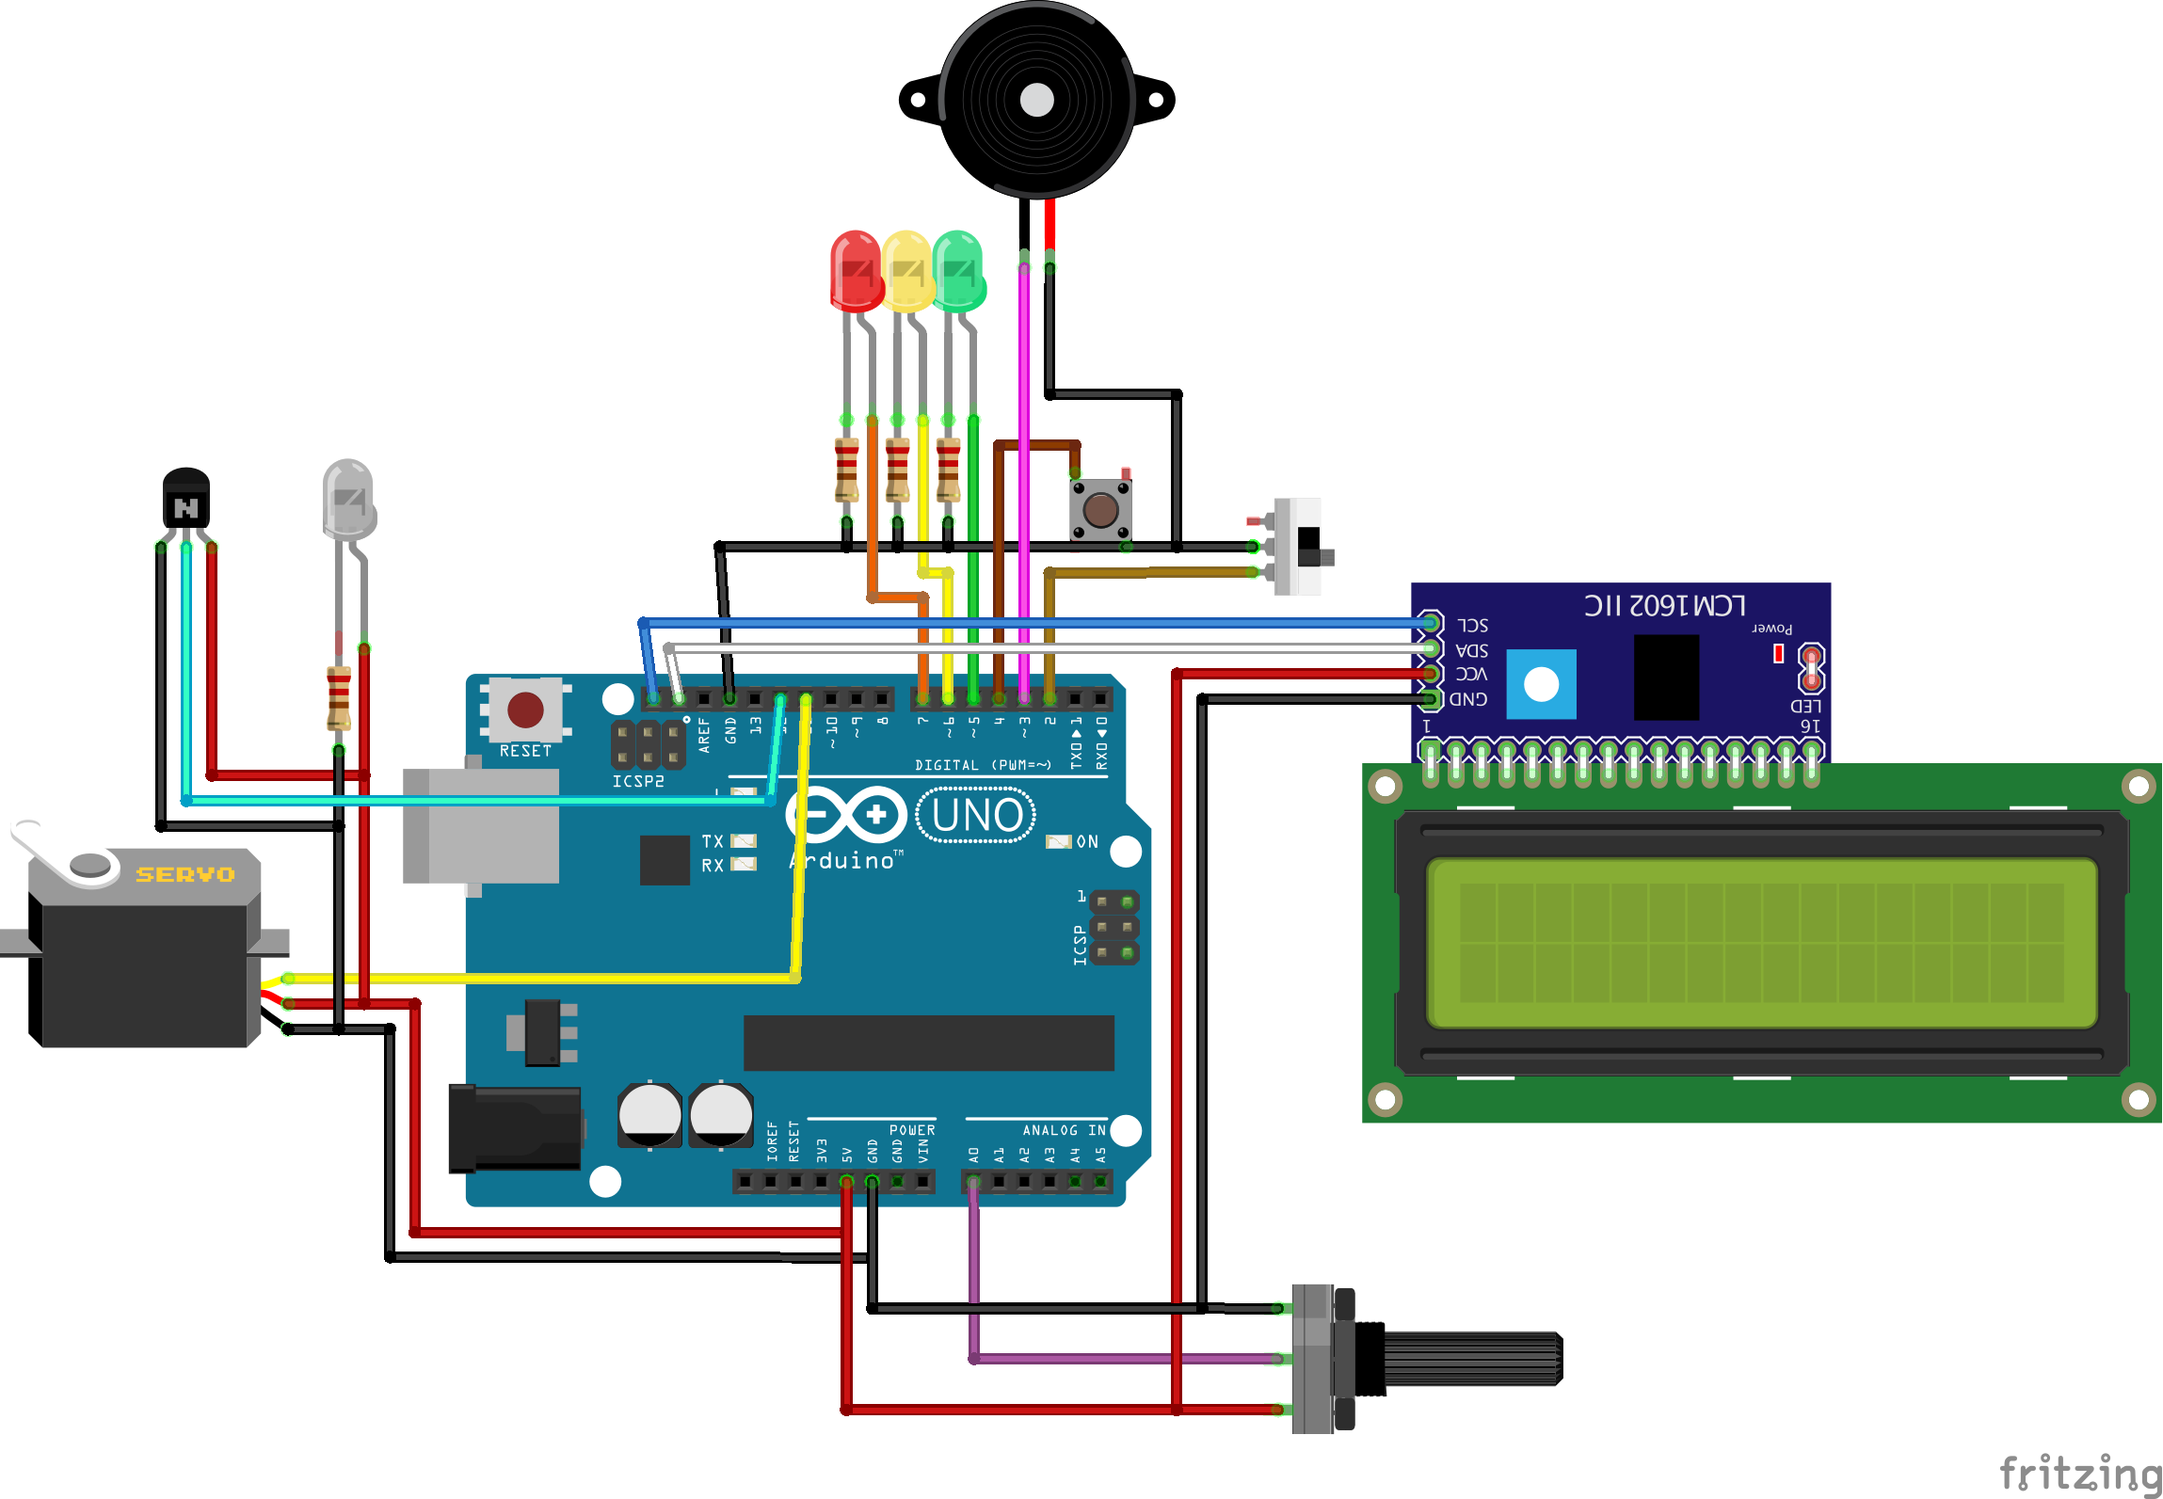
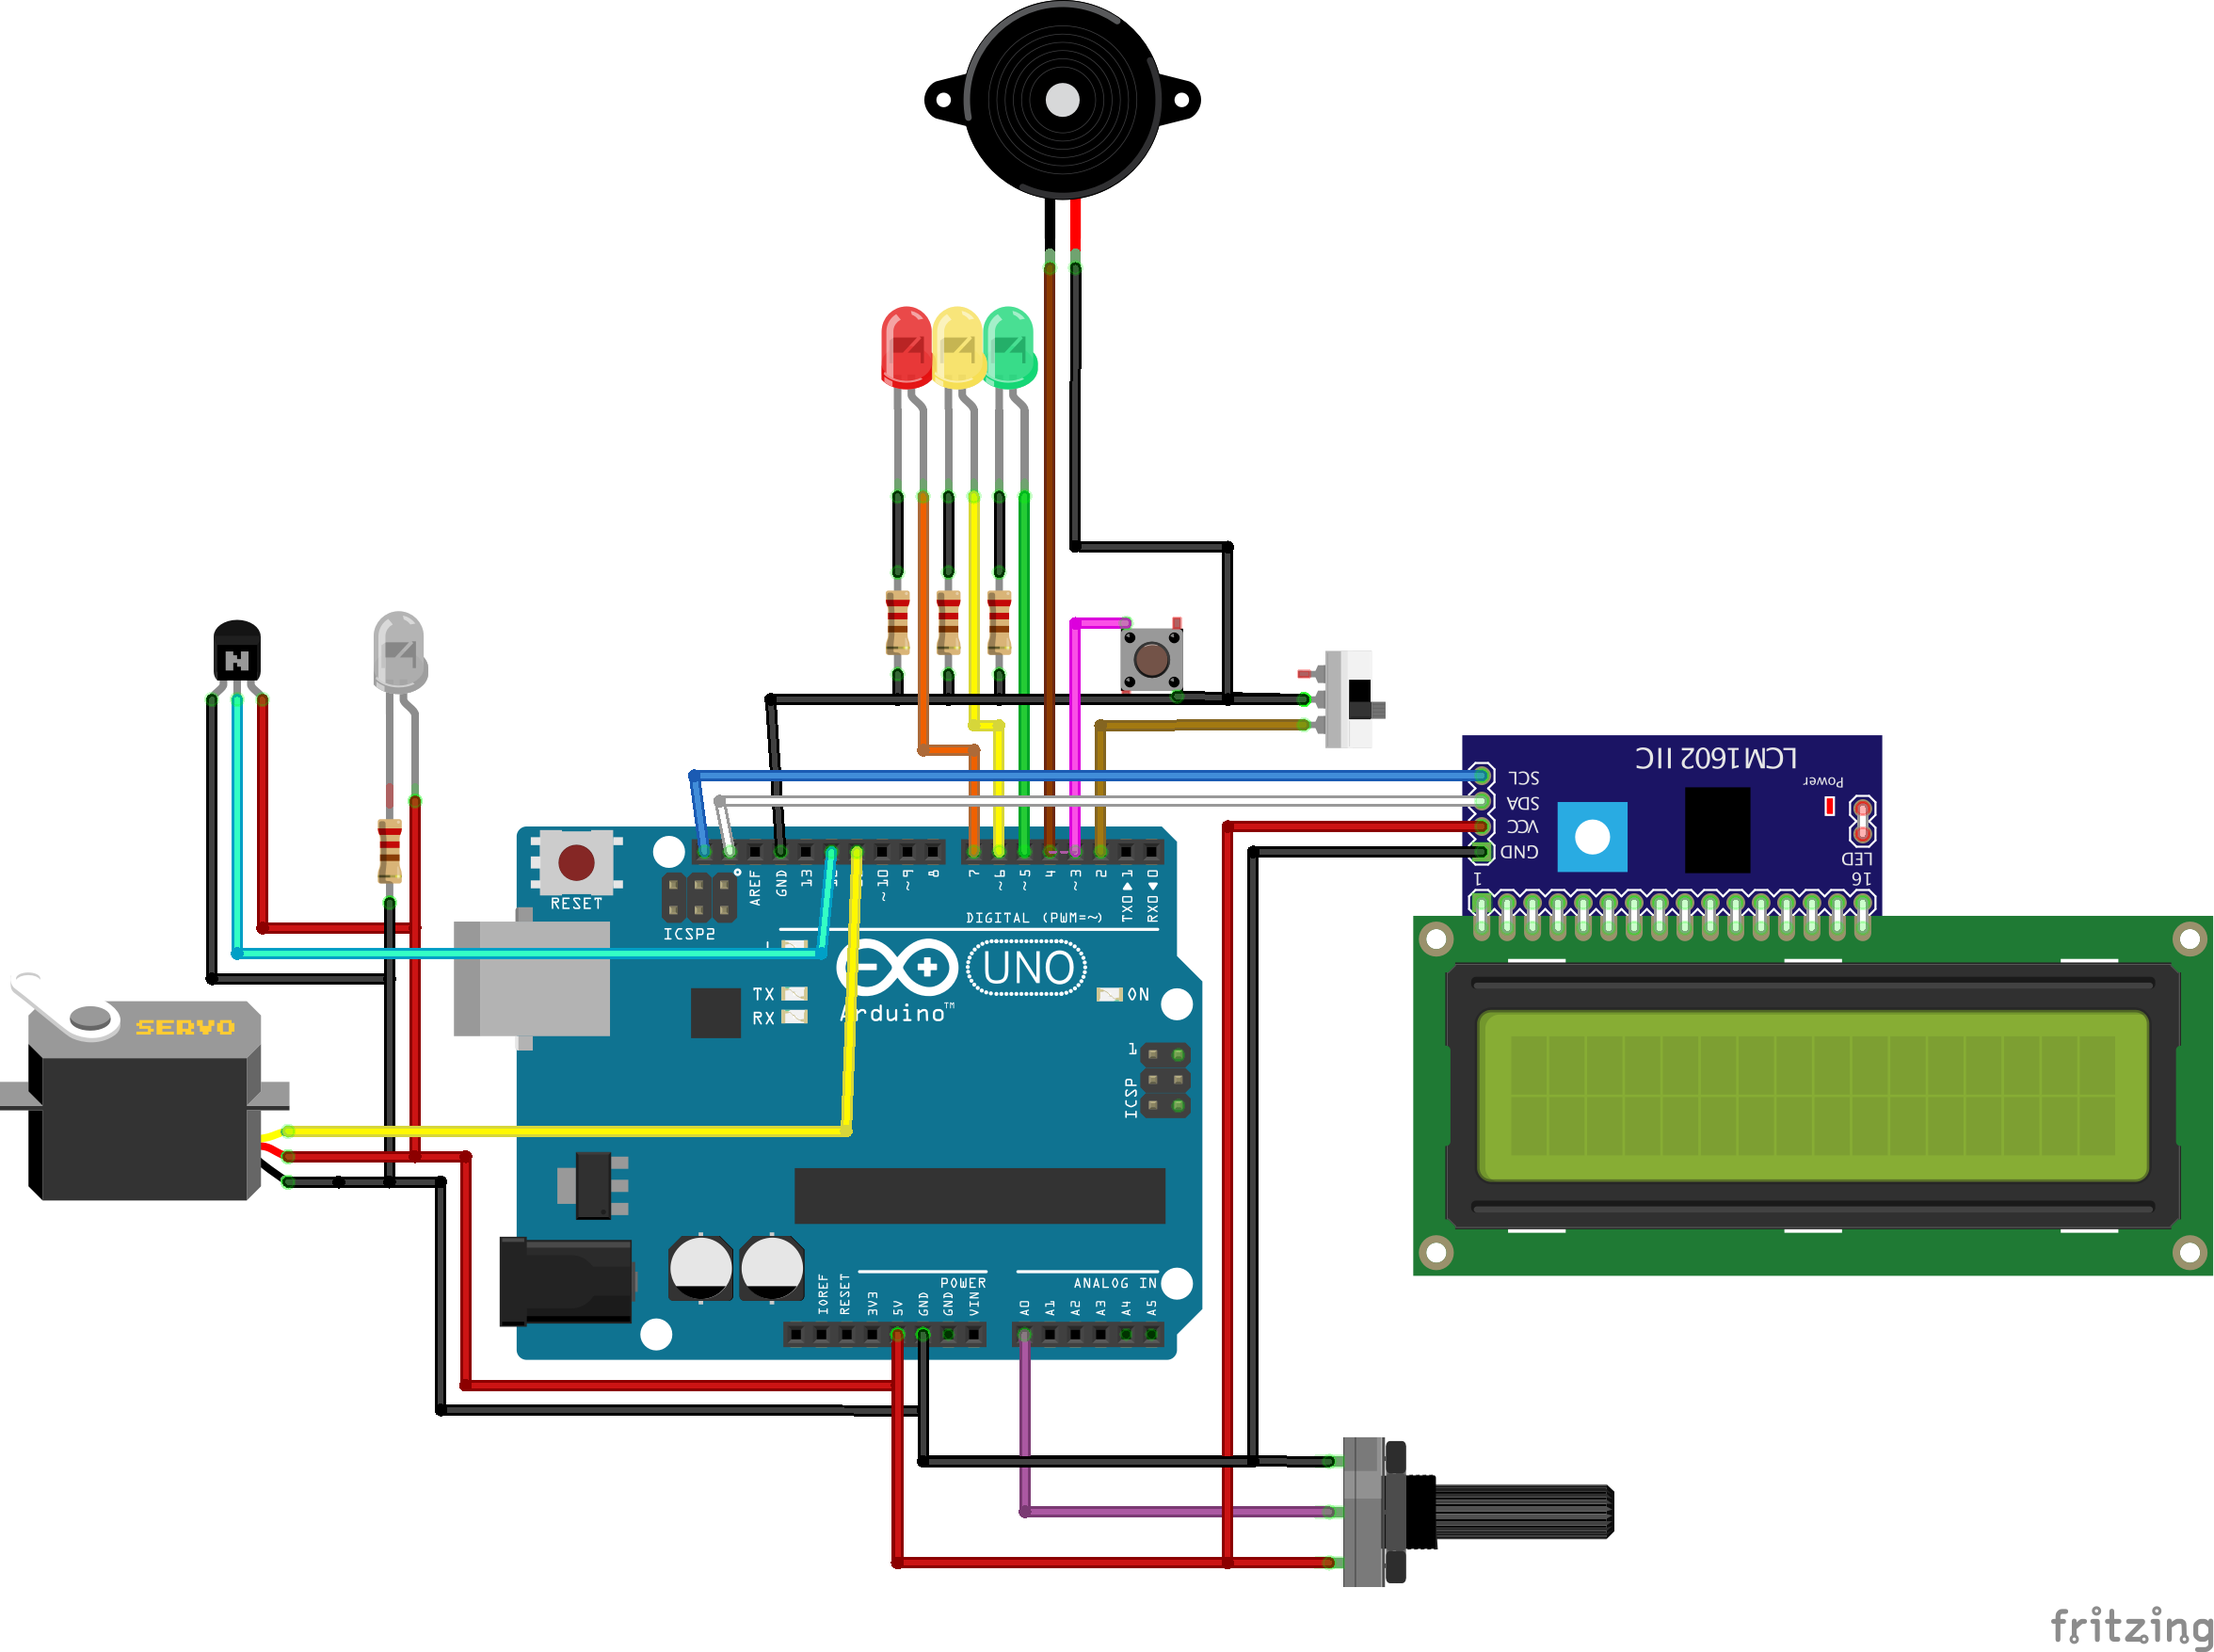
updated wiring scheme

Changed region(s): [[0.0, 0.0, 1.0, 0.9843], [0.9269, 0.9535, 1.0, 1.0]]

diff --git a/README.md b/README.md
@@ -8,11 +8,23 @@ More information is available [on this page](https://www.uni-marburg.de/de/fb13/
 
 ### Arduino UNO Schematic Wiring 
 
-![Arduino UNO Wireing](img/cpap_ventilator_schema.png)
+![Arduino UNO Wiring](img/cpap_ventilator_schema.png)
 
-### Arduino UNO Shield Design
+### Arduino UNO Pinout
 
-![Arduino UNO Shield Unit](img/arduino_uno_shield.png)
+```
+  -DPIN_SPEAKER=2
+  -DPIN_SWITCH_MODE=3
+  -DPIN_BUTTON_RESET=4
+  -DPIN_LED_MODE_ONE=5
+  -DPIN_LED_MODE_TWO=6
+  -DPIN_LED_WARN=7
+  -DPIN_SERVO=11
+  -DPIN_LIGHT=12
+  -DPIN_POTI=A0
+  -DPOTI_MIN=0
+  -DPOTI_MAX=1023
+```
 
 ## Deploying the Code
 
